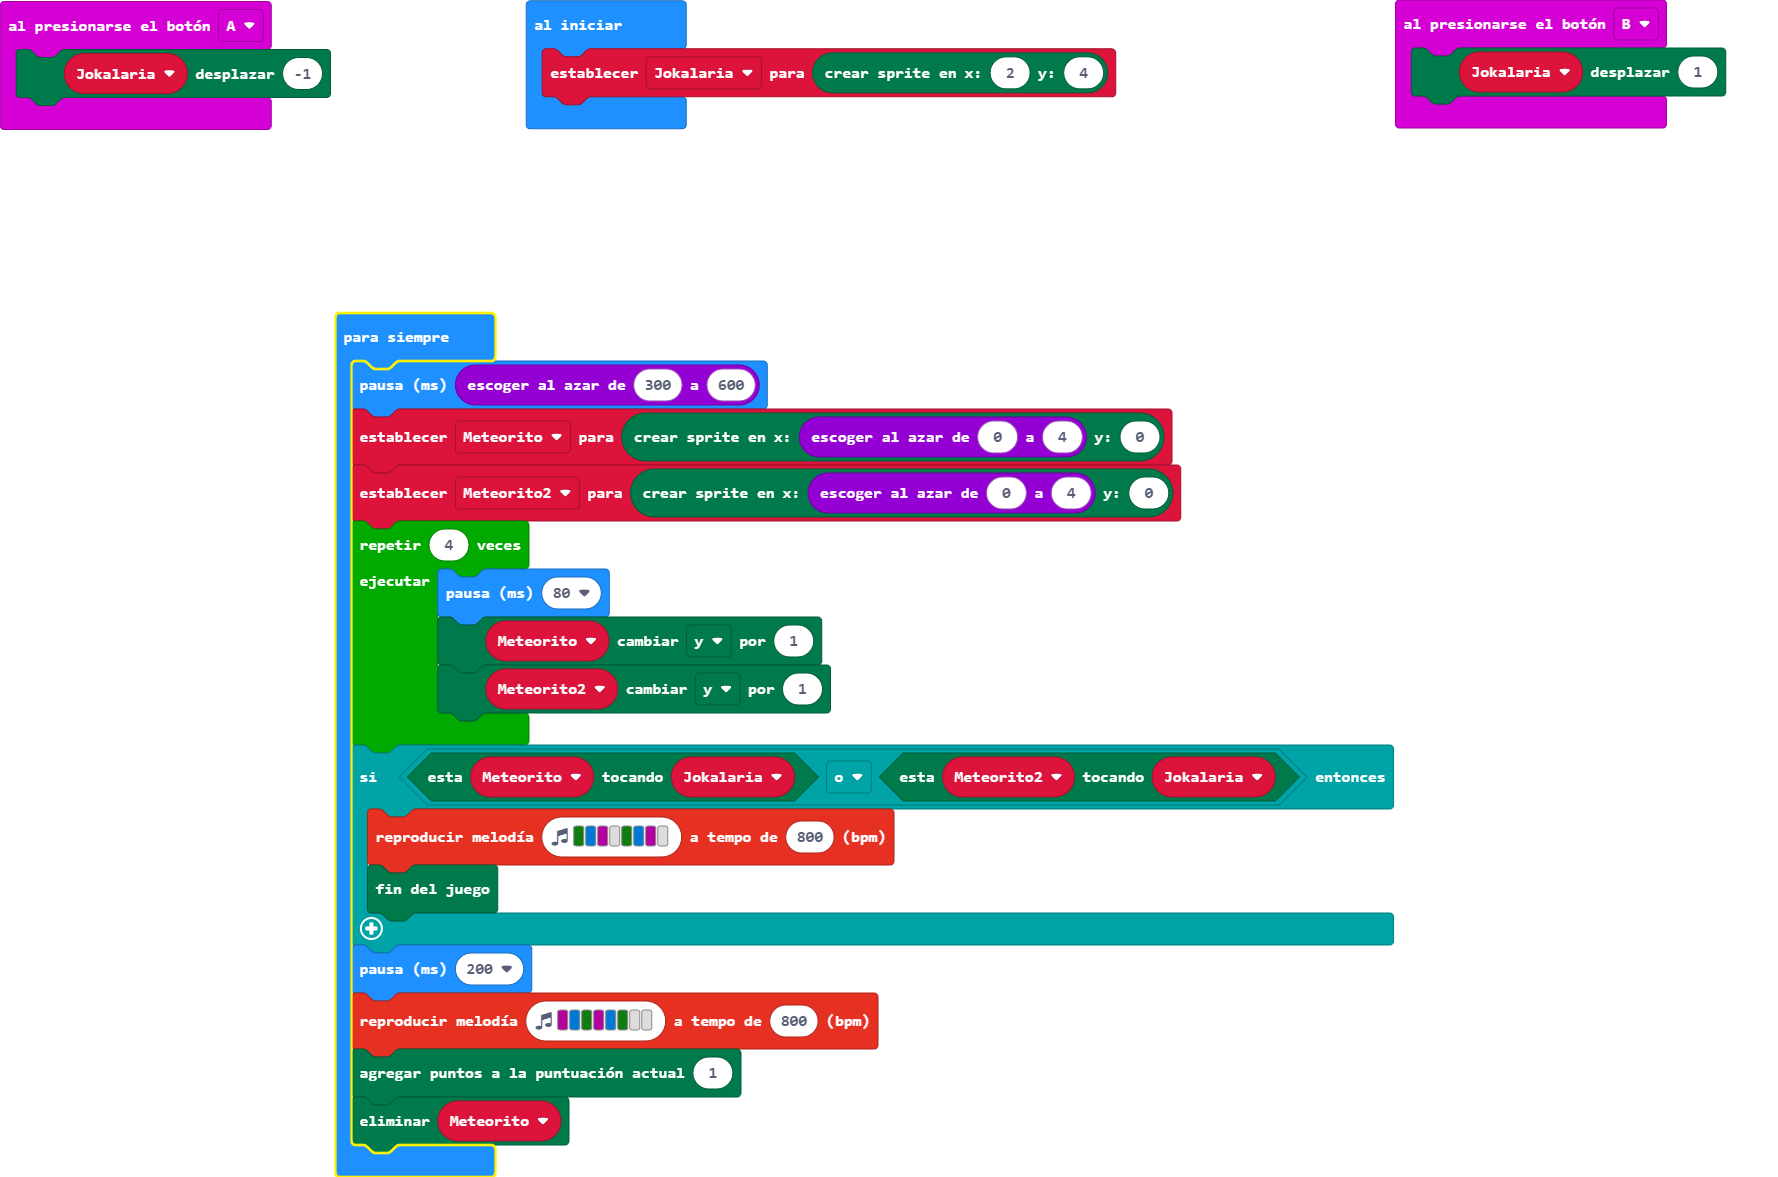
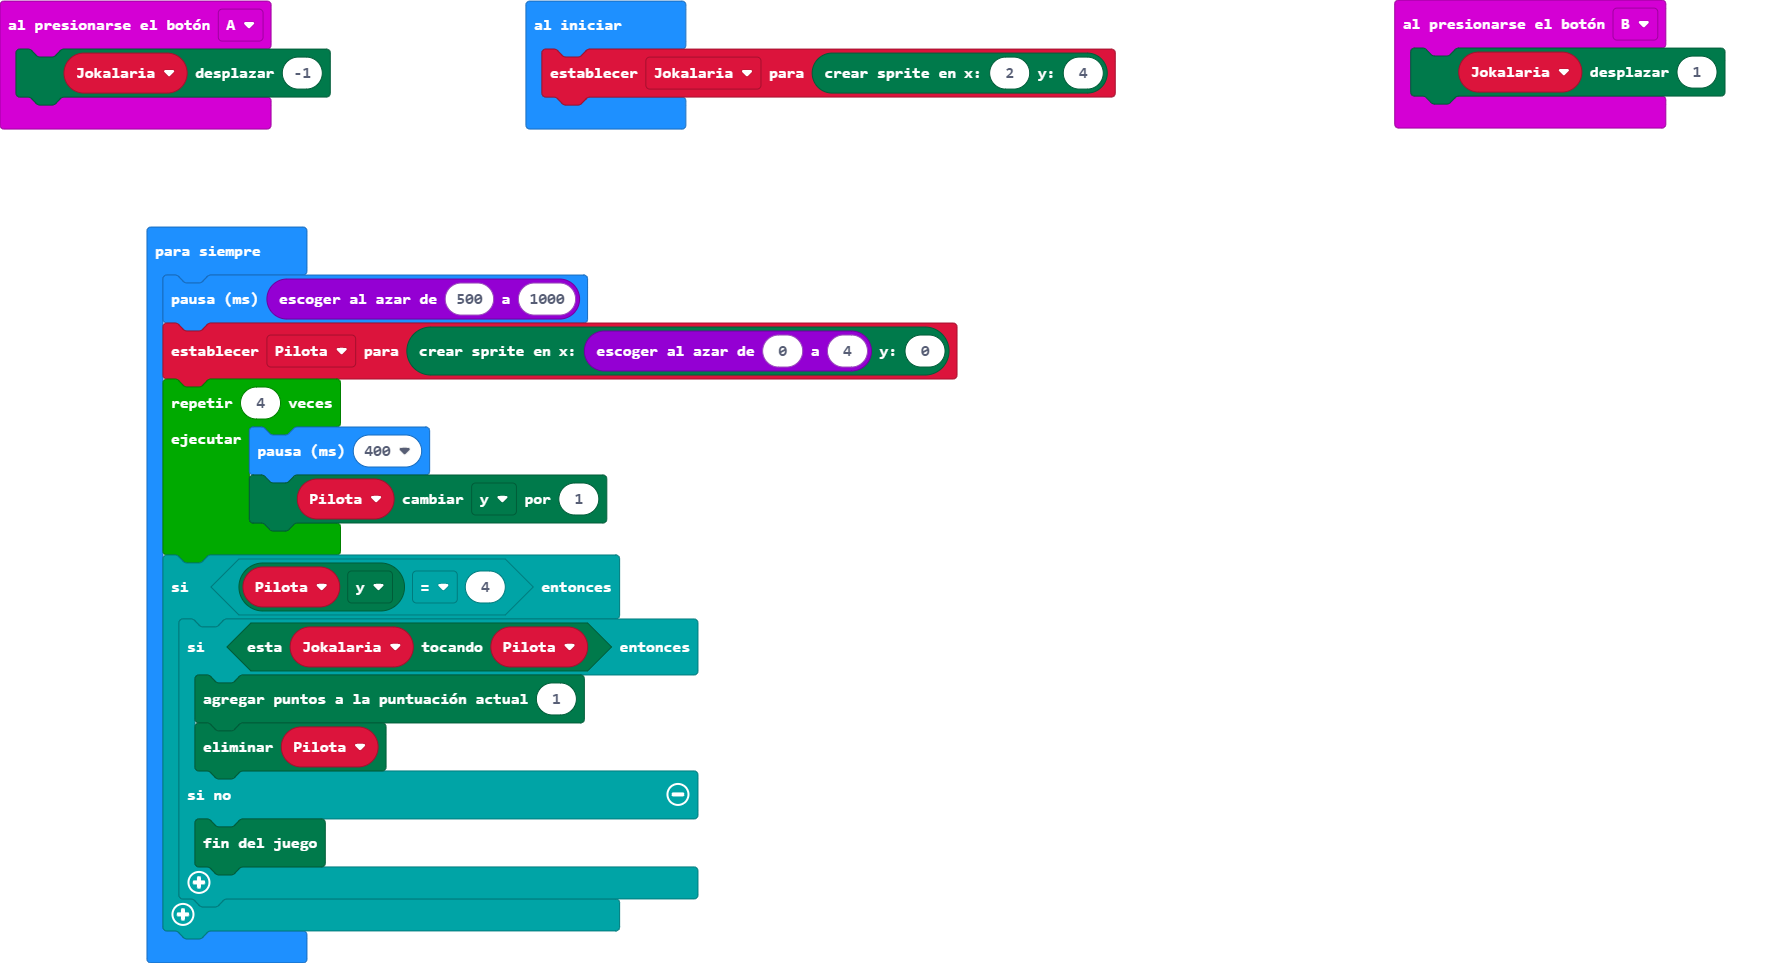
Actualizar pxt.json, main.blocks, main.ts

diff --git a/main.ts b/main.ts
@@ -4,25 +4,22 @@ input.onButtonPressed(Button.A, function () {
 input.onButtonPressed(Button.B, function () {
     Jokalaria.move(1)
 })
-let Meteorito2: game.LedSprite = null
-let Meteorito: game.LedSprite = null
+let Pilota: game.LedSprite = null
 let Jokalaria: game.LedSprite = null
 Jokalaria = game.createSprite(2, 4)
 basic.forever(function () {
-    basic.pause(randint(300, 600))
-    Meteorito = game.createSprite(randint(0, 4), 0)
-    Meteorito2 = game.createSprite(randint(0, 4), 0)
+    basic.pause(randint(500, 1000))
+    Pilota = game.createSprite(randint(0, 4), 0)
     for (let index = 0; index < 4; index++) {
-        basic.pause(80)
-        Meteorito.change(LedSpriteProperty.Y, 1)
-        Meteorito2.change(LedSpriteProperty.Y, 1)
+        basic.pause(400)
+        Pilota.change(LedSpriteProperty.Y, 1)
     }
-    if (Meteorito.isTouching(Jokalaria) || Meteorito2.isTouching(Jokalaria)) {
-        music.playMelody("G E C - G E C - ", 800)
-        game.gameOver()
+    if (Pilota.get(LedSpriteProperty.Y) == 4) {
+        if (Jokalaria.isTouching(Pilota)) {
+            game.addScore(1)
+            Pilota.delete()
+        } else {
+            game.gameOver()
+        }
     }
-    basic.pause(200)
-    music.playMelody("C E G C E G - - ", 800)
-    game.addScore(1)
-    Meteorito.delete()
 })
